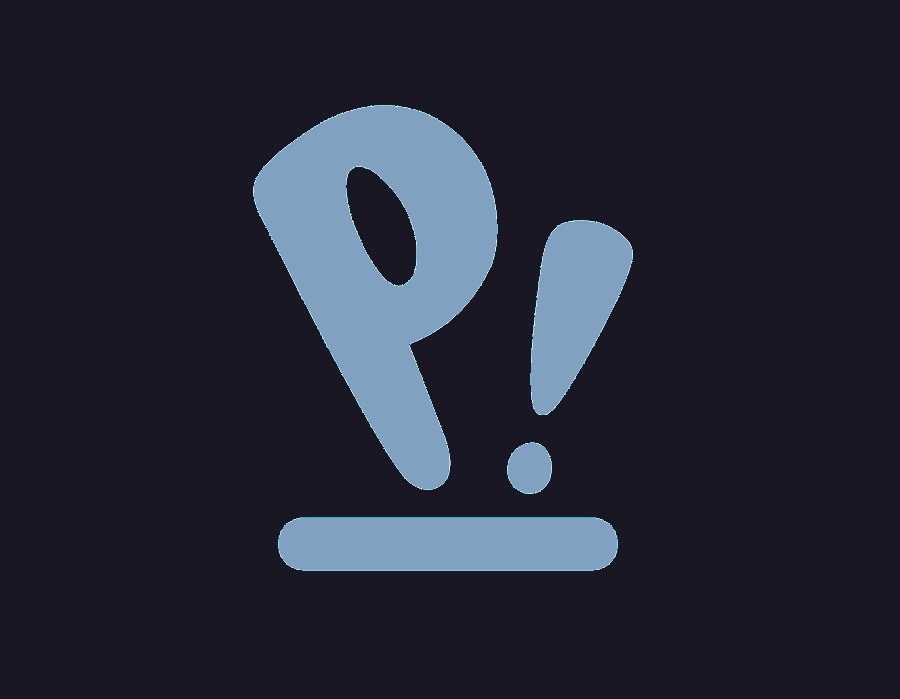
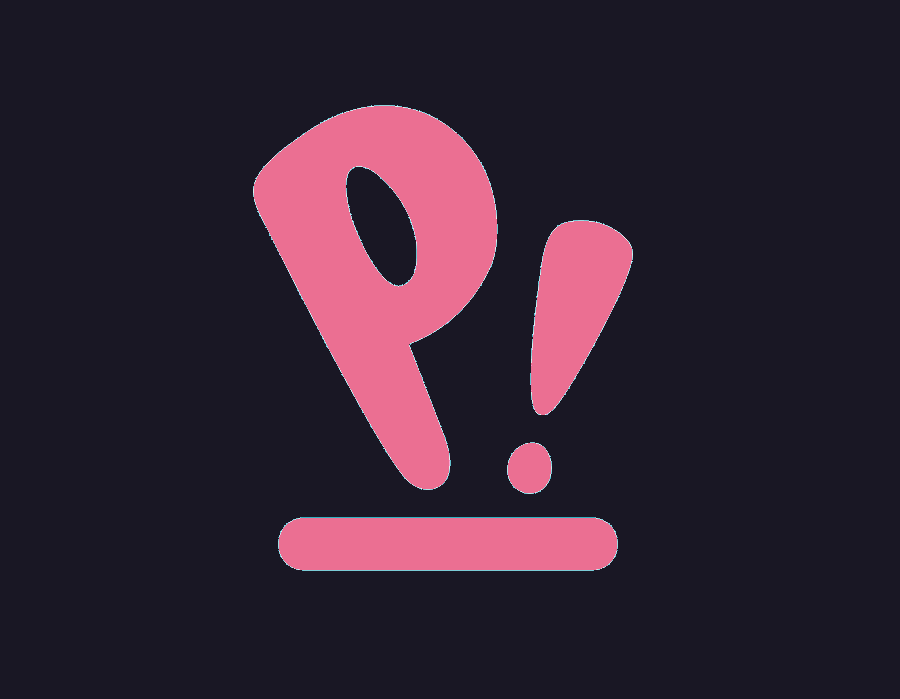
updating theme

Changed region(s): [[0.28, 0.1502, 0.6844, 0.8412], [0.5911, 0.3004, 0.7156, 0.6009]]

diff --git a/config.py b/config.py
@@ -504,15 +504,15 @@ name="Action: "),
 
 #END_KEYS
 
-group_names = [("WWW", {'layout': 'bsp' ,'matches':[Match(wm_class=["Brave-browser-nightly", "Chromium" , "librewolf"])]}),
-               ("DEV", {'layout': 'bsp','matches':[Match(wm_class=["neo"])]}),
-               ("SYS", {'layout': 'bsp', 'matches':[Match(wm_class=["TeamViewer"])]}),
-               ("GAM", {'layout': 'max', 'matches':[Match(wm_class=["lutris" , "Steam" , "upc.exe" , "steam_proton" , "heroic"])]}),
-               ("DOC", {'layout': 'bsp', 'matches':[Match(wm_class=["re.sonny.Tangram", "crx_cifhbcnohmdccbgoicgdjpfamggdegmo", "disk.yandex.com__client_disk"])]}),
-               ("SOC", {'layout': 'max', 'matches':[Match(wm_class=["discord" , "Franz" , "whatsapp-nativefier-d40211" , "altus" , "whatsdesk" , "whatsapp-for-linux", "web.whatsapp.com"])]}),
-               ("REC", {'layout': 'bsp', 'matches':[Match(wm_class=["Spotify"])]}),
-               ("VID", {'layout': 'treetab', 'matches':[Match(wm_class=["nemo"  , "io.github.celluloid_player.Celluloid" , "urxvt" , "obs", "youtube.com", "netflix.com"])]}),
-               ("GFX", {'layout': 'bsp', 'matches':[Match(wm_class=["gimp-2.10","Gimp" ,"Cinelerra","Olive", "kdenlive" , "resolve" ])]})]
+group_names = [("", {'layout': 'bsp' ,'matches':[Match(wm_class=["Brave-browser-nightly", "Chromium" , "librewolf"])]}),
+               ("", {'layout': 'bsp','matches':[Match(wm_class=["neo"])]}),
+               ("", {'layout': 'bsp', 'matches':[Match(wm_class=["TeamViewer"])]}),
+               ("", {'layout': 'max', 'matches':[Match(wm_class=["lutris" , "Steam" , "upc.exe" , "steam_proton" , "heroic"])]}),
+               ("", {'layout': 'bsp', 'matches':[Match(wm_class=["re.sonny.Tangram", "crx_cifhbcnohmdccbgoicgdjpfamggdegmo", "disk.yandex.com__client_disk"])]}),
+               ("", {'layout': 'max', 'matches':[Match(wm_class=["discord" , "Franz" , "whatsapp-nativefier-d40211" , "altus" , "whatsdesk" , "whatsapp-for-linux", "web.whatsapp.com"])]}),
+               ("", {'layout': 'bsp', 'matches':[Match(wm_class=["Spotify"])]}),
+               ("", {'layout': 'treetab', 'matches':[Match(wm_class=["nemo"  , "io.github.celluloid_player.Celluloid" , "urxvt" , "obs", "youtube.com", "netflix.com"])]}),
+               ("", {'layout': 'bsp', 'matches':[Match(wm_class=["gimp-2.10","Gimp" ,"Cinelerra","Olive", "kdenlive" , "resolve" ])]})]
 
 
 groups = [Group(name, **kwargs) for name, kwargs in group_names]
@@ -601,7 +601,7 @@ def init_widgets_list():
                        ),
              widget.GroupBox(
                        font = "Ubuntu Bold",
-                       fontsize = 10,
+                       fontsize = 28,
                        margin_y = 3,
                        margin_x = 0,
                        padding_y = 5,
@@ -753,13 +753,13 @@ def init_widgets_list():
                        ),
              widget.OpenWeather(
                        background = colors[0],
-                       foreground = colors[9],
+                       foreground = colors[8],
                        cityid = "598316",
                        format = '{location_city}: {main_temp} {units_temperature}°  {weather_details}',
                        mouse_callbacks = {'Button1': lambda: qtile.cmd_spawn("brave-browser https://openweathermap.org/city/598316")},
                        decorations = [
                             BorderDecoration (
-                            colour = colors[9],
+                            colour = colors[8],
                             border_width = [0, 0, 2, 0],
                             padding_x = 0, )
                             ],
@@ -774,13 +774,13 @@ def init_widgets_list():
              widget.TextBox(
                        text = '🖴',
                        background = colors[0],
-                       foreground = colors[8],
+                       foreground = colors[9],
                        padding = 1,
                        fontsize = 13,
                        mouse_callbacks = {'Button1': lambda: qtile.cmd_spawn("baobab")},
                        decorations = [
                             BorderDecoration (
-                            colour = colors[8],
+                            colour = colors[9],
                             border_width = [0, 0, 2, 0],
                             padding_x = 0, )
                             ],
@@ -788,12 +788,12 @@ def init_widgets_list():
              widget.DF(
                         partition = "/",
                         visible_on_warn = False,
-                        foreground = colors[8],
+                        foreground = colors[9],
                         background = colors[0],
                         mouse_callbacks = {'Button1': lambda: qtile.cmd_spawn("baobab")},
                         decorations = [
                             BorderDecoration (
-                            colour = colors[8],
+                            colour = colors[9],
                             border_width = [0, 0, 2, 0],
                             padding_x = 0, )
                             ],
@@ -808,23 +808,23 @@ def init_widgets_list():
              widget.TextBox(
                        text = '★',
                        background = colors[0],
-                       foreground = colors[9],
+                       foreground = colors[10],
                        padding = -1,
                        decorations = [
                             BorderDecoration (
-                            colour = colors[9],
+                            colour = colors[10],
                             border_width = [0, 0, 2, 0],
                             padding_x = 0, )
                             ],
                        ),
              widget.CPU(
-                         foreground = colors[9],
+                         foreground = colors[10],
                          background = colors[0],
                          padding = 8,
                          format = '{load_percent}%',
                          decorations = [
                             BorderDecoration (
-                            colour = colors[9],
+                            colour = colors[10],
                             border_width = [0, 0, 2, 0],
                             padding_x = 0, )
                             ],
@@ -839,25 +839,25 @@ def init_widgets_list():
              widget.TextBox(
                        text = " 🌡",
                        padding = 6,
-                       foreground = colors[8],
+                       foreground = colors[11],
                        background = colors[0],
                        fontsize = 11,
                        tag_sensor =  "temp1",
                        decorations = [
                           BorderDecoration (
-                          colour = colors[8],
+                          colour = colors[11],
                           border_width = [0, 0, 2, 0],
                           padding_x = 0, )
                           ],
                        ),
              widget.ThermalSensor(
                         background = colors[0],
-                        foreground = colors[8],
+                        foreground = colors[11],
                         tag_sensor = "Tctl",
                         threshold = 75,
                         decorations = [
                             BorderDecoration (
-                            colour = colors[8],
+                            colour = colors[11],
                             border_width = [0, 0, 2, 0],
                             padding_x = 0, )
                             ],
@@ -871,25 +871,25 @@ def init_widgets_list():
                        ),
              widget.TextBox(
                        text = " 🖬",
-                       foreground = colors[9],
+                       foreground = colors[12],
                        background = colors[0],
                        padding = 0,
                        fontsize = 14,
                        decorations = [
                             BorderDecoration (
-                            colour = colors[9],
+                            colour = colors[12],
                             border_width = [0, 0, 2, 0],
                             padding_x = 0, )
                             ],
                        ),
              widget.Memory(
-                       foreground = colors[9],
+                       foreground = colors[12],
                        background = colors[0],
                        mouse_callbacks = {'Button1': lambda: qtile.cmd_spawn(SYSMON)},
                        padding = 5,
                        decorations = [
                             BorderDecoration (
-                            colour = colors[9],
+                            colour = colors[12],
                             border_width = [0, 0, 2, 0],
                             padding_x = 0, )
                             ],
@@ -904,12 +904,12 @@ def init_widgets_list():
              widget.TextBox(
                      text = " ⟳",
                      padding = 2,
-                     foreground = colors[8],
+                     foreground = colors[13],
                      background = colors[0],
                      fontsize = 14,
                      decorations = [
                             BorderDecoration (
-                            colour = colors[8],
+                            colour = colors[13],
                             border_width = [0, 0, 2, 0],
                             padding_x = 0, )
                             ],
@@ -918,12 +918,12 @@ def init_widgets_list():
                      update_interval = 1800,
                      distro = "Arch",
                      display_format = "{updates} Updates",
-                     colour_have_updates = colors[8],
-                     colour_no_updates = colors[8],
-                     foreground = colors[8],
+                     colour_have_updates = colors[13],
+                     colour_no_updates = colors[13],
+                     foreground = colors[13],
                      decorations = [
                             BorderDecoration (
-                            colour = colors[8],
+                            colour = colors[13],
                             border_width = [0, 0, 2, 0],
                             padding_x = 0, )
                             ],
@@ -939,24 +939,24 @@ def init_widgets_list():
                        ),
              widget.TextBox(
                       text = "♫  Vol:",
-                      foreground = colors[9],
+                      foreground = colors[14],
                       background = colors[0],
                       padding = 0,
                       mouse_callbacks = {'Button1': lambda: qtile.cmd_spawn("pavucontrol")},
                       decorations = [
                             BorderDecoration (
-                            colour = colors[9],
+                            colour = colors[14],
                             border_width = [0, 0, 2, 0],
                             padding_x = 0, )
                             ],
                        ),
              widget.Volume(
-                      foreground = colors[9],
+                      foreground = colors[14],
                       background = colors[0],
                       padding = 5,
                       decorations = [
                             BorderDecoration (
-                            colour = colors[9],
+                            colour = colors[14],
                             border_width = [0, 0, 2, 0],
                             padding_x = 0, )
                             ],
@@ -971,12 +971,12 @@ def init_widgets_list():
              widget.TextBox(
                         text = '',
                         background = colors[0],
-                        foreground = colors[8],
+                        foreground = colors[15],
                         padding = 4,
                         fontsize = 15,
                         decorations = [
                             BorderDecoration (
-                            colour = colors[8],
+                            colour = colors[15],
                             border_width = [0, 0, 2, 0],
                             padding_x = 0, )
                             ],

diff --git a/themes/rose-pine.py b/themes/rose-pine.py
@@ -1,19 +1,28 @@
-layout_colors = [["#EBBCBA", "#EBBCBA"],
-                 ["#191724", "#191724"],
-                 ["#191724", "#191724"],
-                 ["#000000", "#000000"],
-                 ["#6b7089", "#6b7089"]]
+# Rose pine theme for qtile
+# Author: Karl Fredin
+
+# colors for borders and layouts
+layout_colors = [["#EBBCBA", "#EBBCBA"], # 0 -- Border color
+                 ["#191724", "#191724"], # 1
+                 ["#191724", "#191724"], # 2
+                 ["#000000", "#000000"], # 3
+                 ["#6b7089", "#6b7089"]] # 4
 
 
-colors = [["#191724", "#191724"],
-          ["#6E6A86", "#6E6A86"],
-          ["#EBBCBA", "#EBBCBA"],
-          ["#31748F", "#31748F"],
-          ["#AB355A", "#AB355A"],
-          ["#EBBCBA", "#EBBCBA"],
-          ["#EBBCBA", "#EBBCBA"],
-          ["#EBBCBA", "#EBBCBA"],
-          ["#C4A7E7", "#C4A7E7"],
-          ["#EB6F92", "#EB6F92"]]
-
-
+# Color for the qtile bar
+colors = [["#191724", "#191724"], # 0 -- BG color
+          ["#6E6A86", "#6E6A86"], # 1
+          ["#EBBCBA", "#EBBCBA"], # 2
+          ["#31748F", "#31748F"], # 3
+          ["#AB355A", "#AB355A"], # 4
+          ["#EBBCBA", "#EBBCBA"], # 5
+          ["#EBBCBA", "#EBBCBA"], # 6
+          ["#EBBCBA", "#EBBCBA"], # 7
+          ["#F6C177", "#F6C177"], # 8  -- weather widget
+          ["#E0DEF4", "#E0DEF4"], # 9  -- df widget
+          ["#31748F", "#31748F"], # 10 -- cpu widget
+          ["#EB6F92", "#EB6F92"], # 11 -- temp widget
+          ["#C4A7E7", "#C4A7E7"], # 12 -- memory widget
+          ["#EBBCBA", "#EBBCBA"], # 13 -- update widget
+          ["#9CCFD8", "#9CCFD8"], # 14 -- volume widget
+          ["#F6C177", "#F6C177"]] # 15 -- linux icon

diff --git a/themes/iceberg.py b/themes/iceberg.py
@@ -1,3 +1,8 @@
+# Iceberg theme for qtile
+# Author: Karl Fredin
+
+# colors for borders and layouts
+
 layout_colors = [["#A093C7", "#A093C7"],
                  ["#161821", "#161821"],
                  ["#161821", "#161821"],
@@ -5,15 +10,20 @@ layout_colors = [["#A093C7", "#A093C7"],
                  ["#6b7089", "#6b7089"]]
 
 
-colors = [["#161821", "#161821"],
-          ["#5C6370", "#5C6370"],
-          ["#91ACD1", "#91ACD1"],
-          ["#C0CA8E", "#C0CA8E"],
-          ["#5C8299", "#5C8299"],
-          ["#eceff4", "#eceff4"],
-          ["#81A1C1", "#81A1C1"],
-          ["#8FC1C3", "#8FC1C3"],
-          ["#91ACD1", "#91ACD1"],
-          ["#eceff4", "#eceff4"]]
-
-
+# Color for the qtile bar
+colors = [["#161821", "#161821"], # 0 -- BG color
+          ["#5C6370", "#5C6370"], # 1
+          ["#91ACD1", "#91ACD1"], # 2
+          ["#C0CA8E", "#C0CA8E"], # 3
+          ["#5C8299", "#5C8299"], # 4
+          ["#eceff4", "#eceff4"], # 5
+          ["#81A1C1", "#81A1C1"], # 6
+          ["#8FC1C3", "#8FC1C3"], # 7
+          ["#E9B189", "#E9B189"], # 8  -- weather widget
+          ["#D4D7B6", "#D4D7B6"], # 9  -- df widget
+          ["#ADA0D3", "#ADA0D3"], # 10 -- cpu widget
+          ["#E98989", "#E98989"], # 11 -- temp widget
+          ["#8FBCBB", "#8FBCBB"], # 12 -- memory widget
+          ["#b48ead", "#b48ead"], # 13 -- update widget
+          ["#91acd1", "#91acd1"], # 14 -- volume widget
+          ["#eceff4", "#eceff4"]] # 15 -- linux icon
